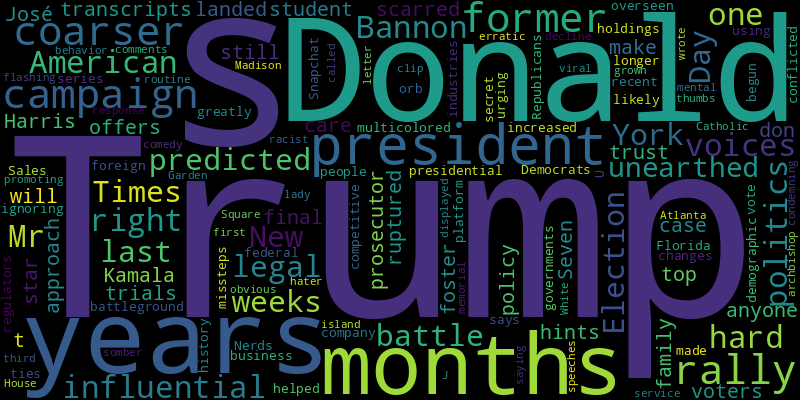
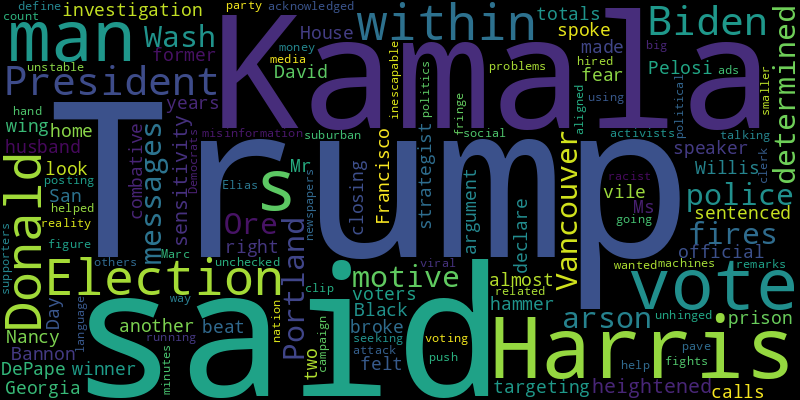
chore(bot): 👿 auto commit

diff --git a/README.md b/README.md
@@ -2,41 +2,41 @@
 Auto RSS New York Times and Generate Word Cloud
 
 ## New York Times Global News
-* The Israeli military said it was looking into reports of the attack. The Palestinian Civil Defense, an emergency service, said at least 55 people were killed.
-* The Iran-backed Houthi militia has detained dozens of Yemenis linked to the U.S. Embassy or international organizations recently.
-* A muted response to Ukraine’s “victory plan” and steep challenges on the battlefield leave Kyiv searching for a Plan B.
+* Moscow is employing a variety of tactics, including torture and forced Russian citizenship, to try to obliterate Ukrainian identity, former detainees and human rights groups say.
+* In Ukraine, where war feels omnipresent, music is helping lift spirits and raise money for the military.
+* Israel’s military warned civilians to leave Baalbek in the Bekaa Valley via three routes. The city had largely been spared Israeli bombardment until this week.
+* Saudi Arabia and its Gulf neighbors are seeking to reassure foreign investors that it’s still safe to do business amid the turmoil around the Mideast.
+* More than 1,000 soldiers from Spain’s emergency response units have been deployed and the death toll is expected to rise from one of the worst natural disasters to hit the country in recent years.
+* The party that has governed the country since 1966 could lose power as the economy struggles from a slump in demand for diamonds, which made Botswana an African success story.
+* The storm prompted closures and raised the risk of landslides as it approached the island. It was expected to hit as the equivalent of a Category 4 hurricane.
+* Last year, the Shanghai government said Halloween celebrations were a sign of “cultural tolerance.” This year, the police rounded up people in costume.
+* When the government effectively forced TikTok to shut down its Shop feature, the company quickly struck an unusual deal with a local company to bring it back.
 * The band, Varihnaz, has gained fans by offering an alternative to China’s hyper-polished, fast-paced modern life, with songs about pesticides and poultry raising.
-* Authorities use satellites to track deforestation caused by chain saws or fire. Now criminals are using chemicals to degrade trees — and evade detection.
-* Cities in eastern and southern Ukraine are increasingly being hit by Russian glide bombs, converted gravity bombs that can be guided to targets, often landing without detection, residents and officials say.
-* Several thousand North Korean soldiers have arrived in Russia’s western Kursk region, where they are expected to support Moscow’s efforts to dislodge invading Ukrainian forces.
-* The French movie star’s lawyer said poor health kept his client from court on Monday.
-* Conservatives in the country have often accused the courts of overreach. Prime Minister Giorgia Meloni’s plan to outsource asylum requests is now part of that longstanding battle.
-* Pluckley is said to count at least 12 spirits among its 1,000 residents. Come October, ghost hunters arrive in droves to a place where even nonbelievers concede they’ve had eerie encounters.
 
 ![Global](./global.png)
 ## New York Times United States News
-* Mr. Bannon, one of the most influential voices in hard-right American politics, predicted a legal battle after Election Day that could last weeks or months.
-* The New York Times unearthed transcripts from Kamala Harris’s years as a prosecutor. Her approach during trials offers hints about how she will make her final case to voters.
-* Seven years after a Trump policy ruptured his family and landed him in foster care, José is a star student. But he is still scarred. “I don’t trust anyone.”
-* Once a top presidential battleground, Florida is no longer competitive. Democrats made a series of missteps, and demographic changes helped Republicans.
-* Sales of Nerds have greatly increased in recent years, the company says. The secret? A multicolored orb.
-* With business ties to foreign governments and holdings in industries overseen by federal regulators, Donald Trump would likely be the most conflicted president in U.S. history.
-* After months of ignoring Snapchat, Donald Trump’s campaign has begun using the platform, urging people to vote by promoting a viral clip of him flashing a thumbs-up at a somber memorial service.
-* The island’s Catholic archbishop also wrote a letter to Donald Trump condemning a racist comedy routine during his Madison Square Garden rally.
-* At a rally in Atlanta, Donald Trump called the former first lady a “hater,” in response to her comments saying he had displayed “erratic behavior” and “obvious mental decline.”
-* In former President Donald J. Trump’s third campaign for the White House, his speeches have grown coarser and coarser.
+* The police said they had not determined a motive for the arson fires in Portland, Ore., and Vancouver, Wash. But the messages have heightened the sensitivity of the investigation.
+* David DePape broke into the San Francisco home of Nancy Pelosi, the former speaker of the House, in 2022 and beat her husband with a hammer.
+* Ms. Willis spoke of the fear she felt after a man made “vile” calls targeting her and another Black official in Georgia. The man was sentenced to almost two years in prison.
+* Mr. Bannon, the combative right-wing strategist, said if Trump’s vote totals on Election Day look like 2020, he should once again declare himself the winner.
+* Kamala Harris, in her closing argument to voters, acknowledged an inescapable political reality: Donald Trump is not a fringe figure within his own party or the nation.
+* The clerk had said he wanted to count votes by hand, as Trump-aligned activists push misinformation about problems with voting machines.
+* The ads seeking to define Donald Trump as “unhinged, unstable, unchecked” are running in smaller suburban newspapers.
+* Marc Elias, hired to help Kamala Harris in election-related fights, helped to pave the way for big money in politics.
+* Within minutes of the clip of President Biden’s remarks going viral, the Trump campaign and others were using it to attack Kamala Harris and Democrats.
+* In a posting on social media, President Biden said he was talking about racist language, not Trump supporters.
 
 ![US](./usnews.png)
 ## New York Times Asia News
-* The band, Varihnaz, has gained fans by offering an alternative to China’s hyper-polished, fast-paced modern life, with songs about pesticides and poultry raising.
-* Plus, the “Ketamine Queen.”
-* The presidential candidate’s mother, Shyamala Gopalan Harris, was a breast cancer researcher whose egalitarian politics often bucked a patriarchal lab culture.
-* The long-ruling Liberal Democratic Party has lost its parliamentary majority, raising questions about the policy stability that has lured investors.
-* Deep-seated grievance among Japanese voters has put the Liberal Democrats, longstanding custodians of the status quo, on notice.
-* Former President Rodrigo Duterte was defiant in Senate testimony about the years of bloodshed that left thousands dead. “I did it for my country,” he said.
-* State-controlled companies now run an industry once known for its acid pits, radioactive waste and smugglers.
-* A violent attack on a Vietnamese fishing boat tests Hanoi’s muted but resolute approach to China’s aggression in the South China Sea.
-* Plus, a long-lost Chopin waltz.
-* The storm made landfall near Danang on Sunday after leaving at least 80 people dead last week.
+* Recent earth science developments suggest that how we count our planet’s largest land masses is less clear than we learned in school.
+* The storm prompted closures and raised the risk of landslides as it approached the island. It was expected to hit as the equivalent of a Category 4 hurricane.
+* Spain is forging a path as a “connector” country, drawing Chinese investment as it abstained from taking a position on European tariffs on electric cars.
+* When TikTok needed an e-commerce partner in Indonesia, Tokopedia was an obvious candidate for the vast network of warehouses, motorbikes and “sprinters” it uses.
+* When the government effectively forced TikTok to shut down its Shop feature, the company quickly struck an unusual deal with a local company to bring it back.
+* Last year, the Shanghai government said Halloween celebrations were a sign of “cultural tolerance.” This year, the police rounded up people in costume.
+* Plus, what happened to repatriated art in Benin.
+* Phones used by Jared Kushner and Eric Trump were among those that hackers sought access to as part of a counterintelligence effort carried out by a hacking group associated with China.
+* The U.S. government has tried to keep Chinese companies from obtaining certain advanced technologies, but concerns have been growing that some products may have been routed to Huawei.
+* The big and cumbersome Army is trying to transform itself to deploy quickly to Asia, if needed. It is an inherently dangerous business.
 
 ![Asian](./asian.png)

diff --git a/archive/2024-10-29.md b/archive/2024-10-29.md
@@ -1,0 +1,42 @@
+# NewsArchive
+Auto RSS New York Times and Generate Word Cloud
+
+## New York Times Global News
+* The Israeli military said it was looking into reports of the attack. The Palestinian Civil Defense, an emergency service, said at least 55 people were killed.
+* The Iran-backed Houthi militia has detained dozens of Yemenis linked to the U.S. Embassy or international organizations recently.
+* A muted response to Ukraine’s “victory plan” and steep challenges on the battlefield leave Kyiv searching for a Plan B.
+* The band, Varihnaz, has gained fans by offering an alternative to China’s hyper-polished, fast-paced modern life, with songs about pesticides and poultry raising.
+* Authorities use satellites to track deforestation caused by chain saws or fire. Now criminals are using chemicals to degrade trees — and evade detection.
+* Cities in eastern and southern Ukraine are increasingly being hit by Russian glide bombs, converted gravity bombs that can be guided to targets, often landing without detection, residents and officials say.
+* Several thousand North Korean soldiers have arrived in Russia’s western Kursk region, where they are expected to support Moscow’s efforts to dislodge invading Ukrainian forces.
+* The French movie star’s lawyer said poor health kept his client from court on Monday.
+* Conservatives in the country have often accused the courts of overreach. Prime Minister Giorgia Meloni’s plan to outsource asylum requests is now part of that longstanding battle.
+* Pluckley is said to count at least 12 spirits among its 1,000 residents. Come October, ghost hunters arrive in droves to a place where even nonbelievers concede they’ve had eerie encounters.
+
+![Global](./global.png)
+## New York Times United States News
+* Mr. Bannon, one of the most influential voices in hard-right American politics, predicted a legal battle after Election Day that could last weeks or months.
+* The New York Times unearthed transcripts from Kamala Harris’s years as a prosecutor. Her approach during trials offers hints about how she will make her final case to voters.
+* Seven years after a Trump policy ruptured his family and landed him in foster care, José is a star student. But he is still scarred. “I don’t trust anyone.”
+* Once a top presidential battleground, Florida is no longer competitive. Democrats made a series of missteps, and demographic changes helped Republicans.
+* Sales of Nerds have greatly increased in recent years, the company says. The secret? A multicolored orb.
+* With business ties to foreign governments and holdings in industries overseen by federal regulators, Donald Trump would likely be the most conflicted president in U.S. history.
+* After months of ignoring Snapchat, Donald Trump’s campaign has begun using the platform, urging people to vote by promoting a viral clip of him flashing a thumbs-up at a somber memorial service.
+* The island’s Catholic archbishop also wrote a letter to Donald Trump condemning a racist comedy routine during his Madison Square Garden rally.
+* At a rally in Atlanta, Donald Trump called the former first lady a “hater,” in response to her comments saying he had displayed “erratic behavior” and “obvious mental decline.”
+* In former President Donald J. Trump’s third campaign for the White House, his speeches have grown coarser and coarser.
+
+![US](./usnews.png)
+## New York Times Asia News
+* The band, Varihnaz, has gained fans by offering an alternative to China’s hyper-polished, fast-paced modern life, with songs about pesticides and poultry raising.
+* Plus, the “Ketamine Queen.”
+* The presidential candidate’s mother, Shyamala Gopalan Harris, was a breast cancer researcher whose egalitarian politics often bucked a patriarchal lab culture.
+* The long-ruling Liberal Democratic Party has lost its parliamentary majority, raising questions about the policy stability that has lured investors.
+* Deep-seated grievance among Japanese voters has put the Liberal Democrats, longstanding custodians of the status quo, on notice.
+* Former President Rodrigo Duterte was defiant in Senate testimony about the years of bloodshed that left thousands dead. “I did it for my country,” he said.
+* State-controlled companies now run an industry once known for its acid pits, radioactive waste and smugglers.
+* A violent attack on a Vietnamese fishing boat tests Hanoi’s muted but resolute approach to China’s aggression in the South China Sea.
+* Plus, a long-lost Chopin waltz.
+* The storm made landfall near Danang on Sunday after leaving at least 80 people dead last week.
+
+![Asian](./asian.png)
